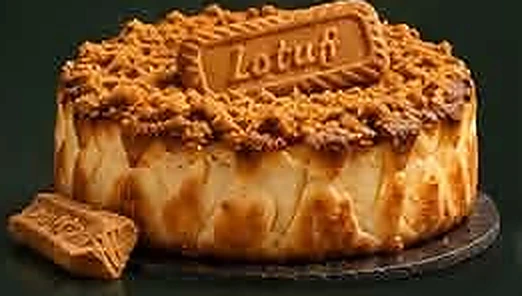
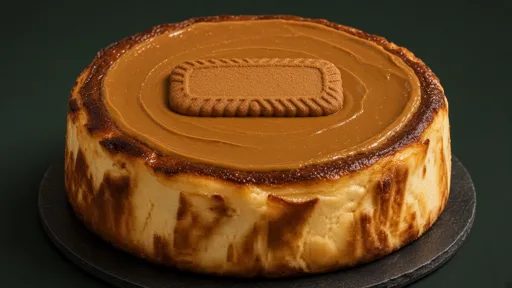
Flavor photos v2 (Uma): jam-only fruity tops, crushed KitKat, Biscoff fix

diff --git a/index.html b/index.html
@@ -89,23 +89,23 @@
             <div class="flavor-copy"><h3>Classic</h3><p>The Original</p><p class="flavor-price" data-price="Classic">₱700</p><span class="card-hint">View &amp; order <span aria-hidden="true">↗</span></span></div>
           </button></article>
           <article class="flavor-card" data-flavor="Blueberry"><button class="flavor-open" type="button" aria-haspopup="dialog" aria-label="View Blueberry cheesecake and order options">
-            <figure><img src="assets/flavors/blueberry.webp" alt="Blueberry cake from Carlo’s supplied menu mockup" width="480" height="290" loading="lazy"></figure>
+            <figure><img src="assets/flavors/blueberry.webp?v=2" alt="Blueberry Basque cheesecake with a glossy blueberry jam top" width="512" height="288" loading="lazy"></figure>
             <div class="flavor-copy"><h3>Blueberry</h3><p>Fruity Flavor</p><p class="flavor-price" data-price="Blueberry">₱850</p><span class="card-hint">View &amp; order <span aria-hidden="true">↗</span></span></div>
           </button></article>
           <article class="flavor-card" data-flavor="Strawberry"><button class="flavor-open" type="button" aria-haspopup="dialog" aria-label="View Strawberry cheesecake and order options">
-            <figure><img src="assets/flavors/strawberry.webp" alt="Strawberry cake from Carlo’s supplied menu mockup" width="480" height="290" loading="lazy"></figure>
+            <figure><img src="assets/flavors/strawberry.webp?v=2" alt="Strawberry Basque cheesecake with a glossy strawberry jam top" width="512" height="288" loading="lazy"></figure>
             <div class="flavor-copy"><h3>Strawberry</h3><p>Fruity Flavor</p><p class="flavor-price" data-price="Strawberry">₱850</p><span class="card-hint">View &amp; order <span aria-hidden="true">↗</span></span></div>
           </button></article>
           <article class="flavor-card" data-flavor="Mango"><button class="flavor-open" type="button" aria-haspopup="dialog" aria-label="View Mango cheesecake and order options">
-            <figure><img src="assets/flavors/mango.webp" alt="Mango cake from Carlo’s supplied menu mockup" width="480" height="290" loading="lazy"></figure>
+            <figure><img src="assets/flavors/mango.webp?v=2" alt="Mango Basque cheesecake with a glossy mango jam top" width="512" height="288" loading="lazy"></figure>
             <div class="flavor-copy"><h3>Mango</h3><p>Fruity Flavor</p><p class="flavor-price" data-price="Mango">₱850</p><span class="card-hint">View &amp; order <span aria-hidden="true">↗</span></span></div>
           </button></article>
           <article class="flavor-card" data-flavor="Biscoff"><button class="flavor-open" type="button" aria-haspopup="dialog" aria-label="View Biscoff cheesecake and order options">
-            <figure><img src="assets/flavors/biscoff.webp" alt="Biscoff cake from Carlo’s supplied menu mockup" width="480" height="290" loading="lazy"></figure>
+            <figure><img src="assets/flavors/biscoff.webp?v=2" alt="Biscoff Basque cheesecake with Biscoff spread and a cookie" width="512" height="288" loading="lazy"></figure>
             <div class="flavor-copy"><h3>Biscoff</h3><p>Premium Flavor</p><p class="flavor-price" data-price="Biscoff">₱950</p><span class="card-hint">View &amp; order <span aria-hidden="true">↗</span></span></div>
           </button></article>
           <article class="flavor-card" data-flavor="KitKat"><button class="flavor-open" type="button" aria-haspopup="dialog" aria-label="View KitKat cheesecake and order options">
-            <figure><img src="assets/flavors/kitkat.webp" alt="KitKat cake from Carlo’s supplied menu mockup" width="480" height="290" loading="lazy"></figure>
+            <figure><img src="assets/flavors/kitkat.webp?v=2" alt="KitKat Basque cheesecake topped with crushed KitKat" width="512" height="288" loading="lazy"></figure>
             <div class="flavor-copy"><h3>KitKat</h3><p>Premium Flavor</p><p class="flavor-price" data-price="KitKat">₱950</p><span class="card-hint">View &amp; order <span aria-hidden="true">↗</span></span></div>
           </button></article>
           <article class="flavor-card" data-flavor="Nutella"><button class="flavor-open" type="button" aria-haspopup="dialog" aria-label="View Nutella cheesecake and order options">
